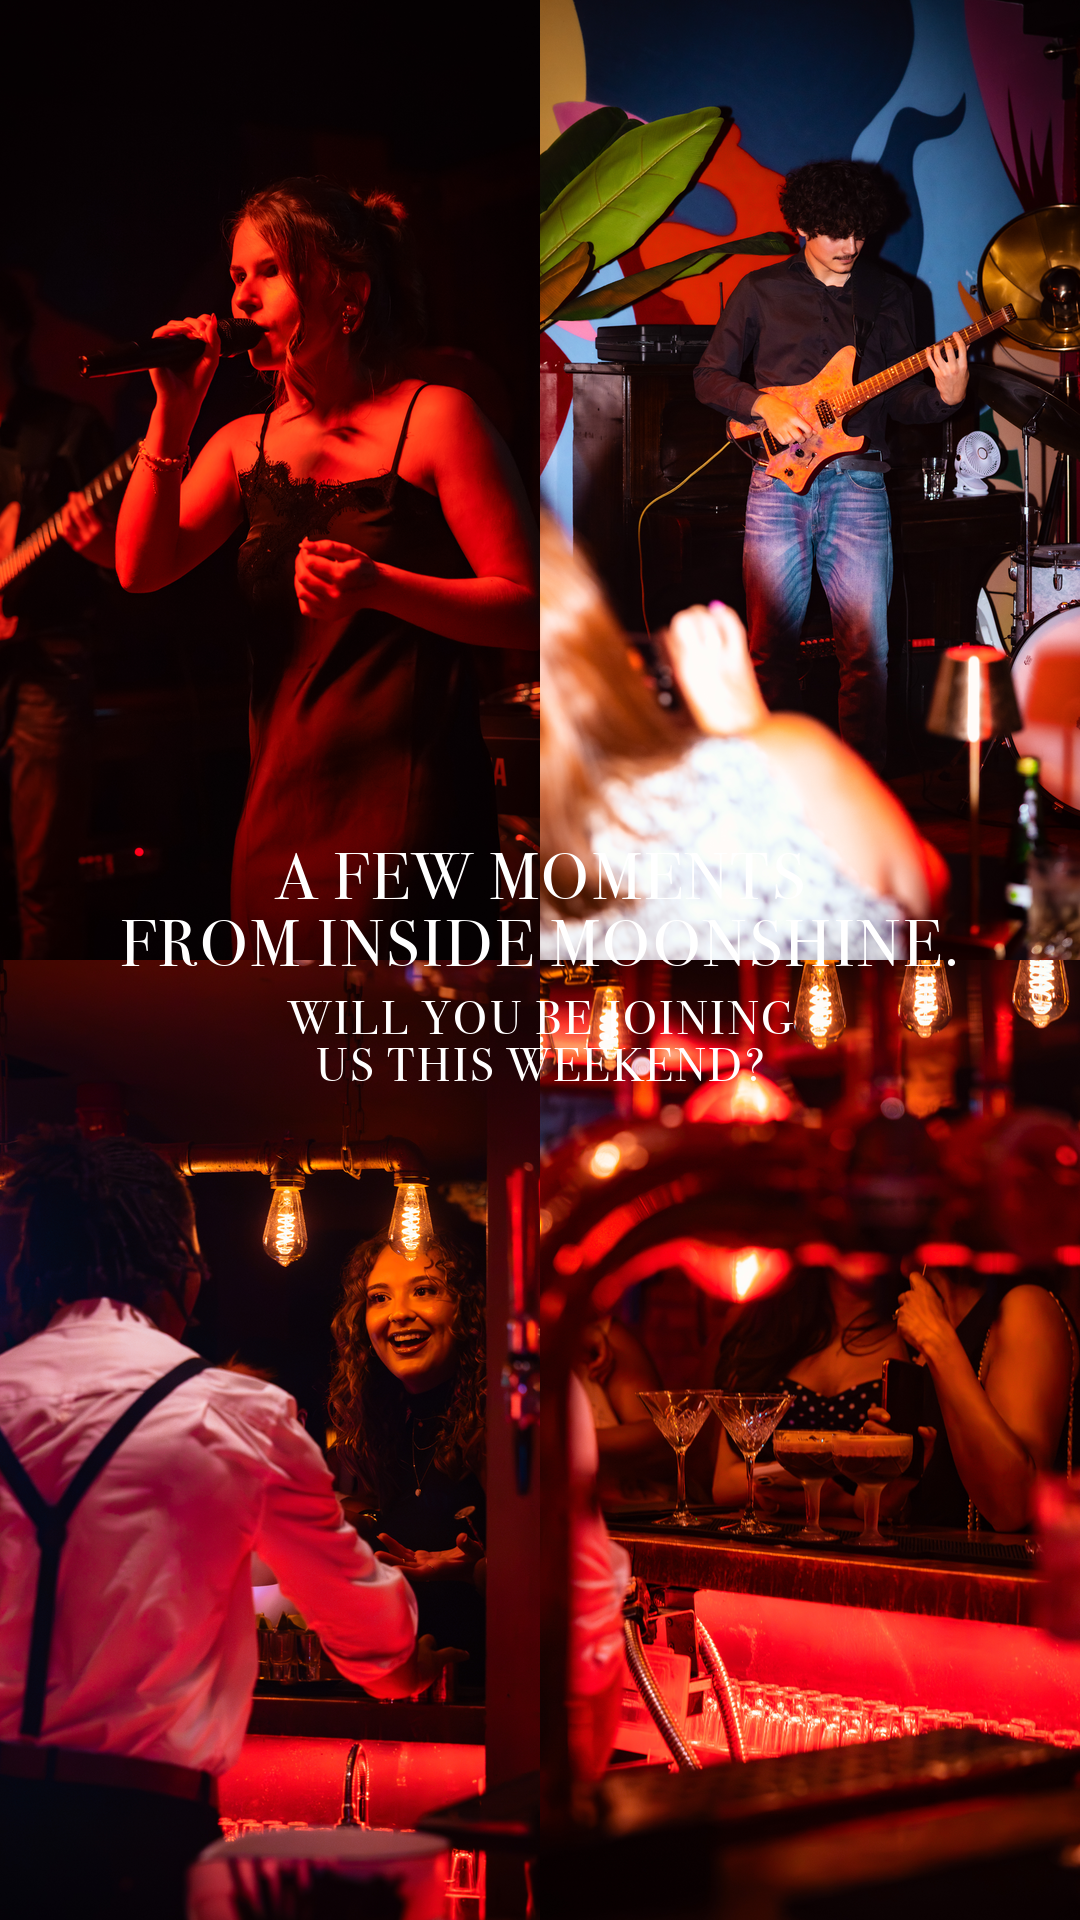
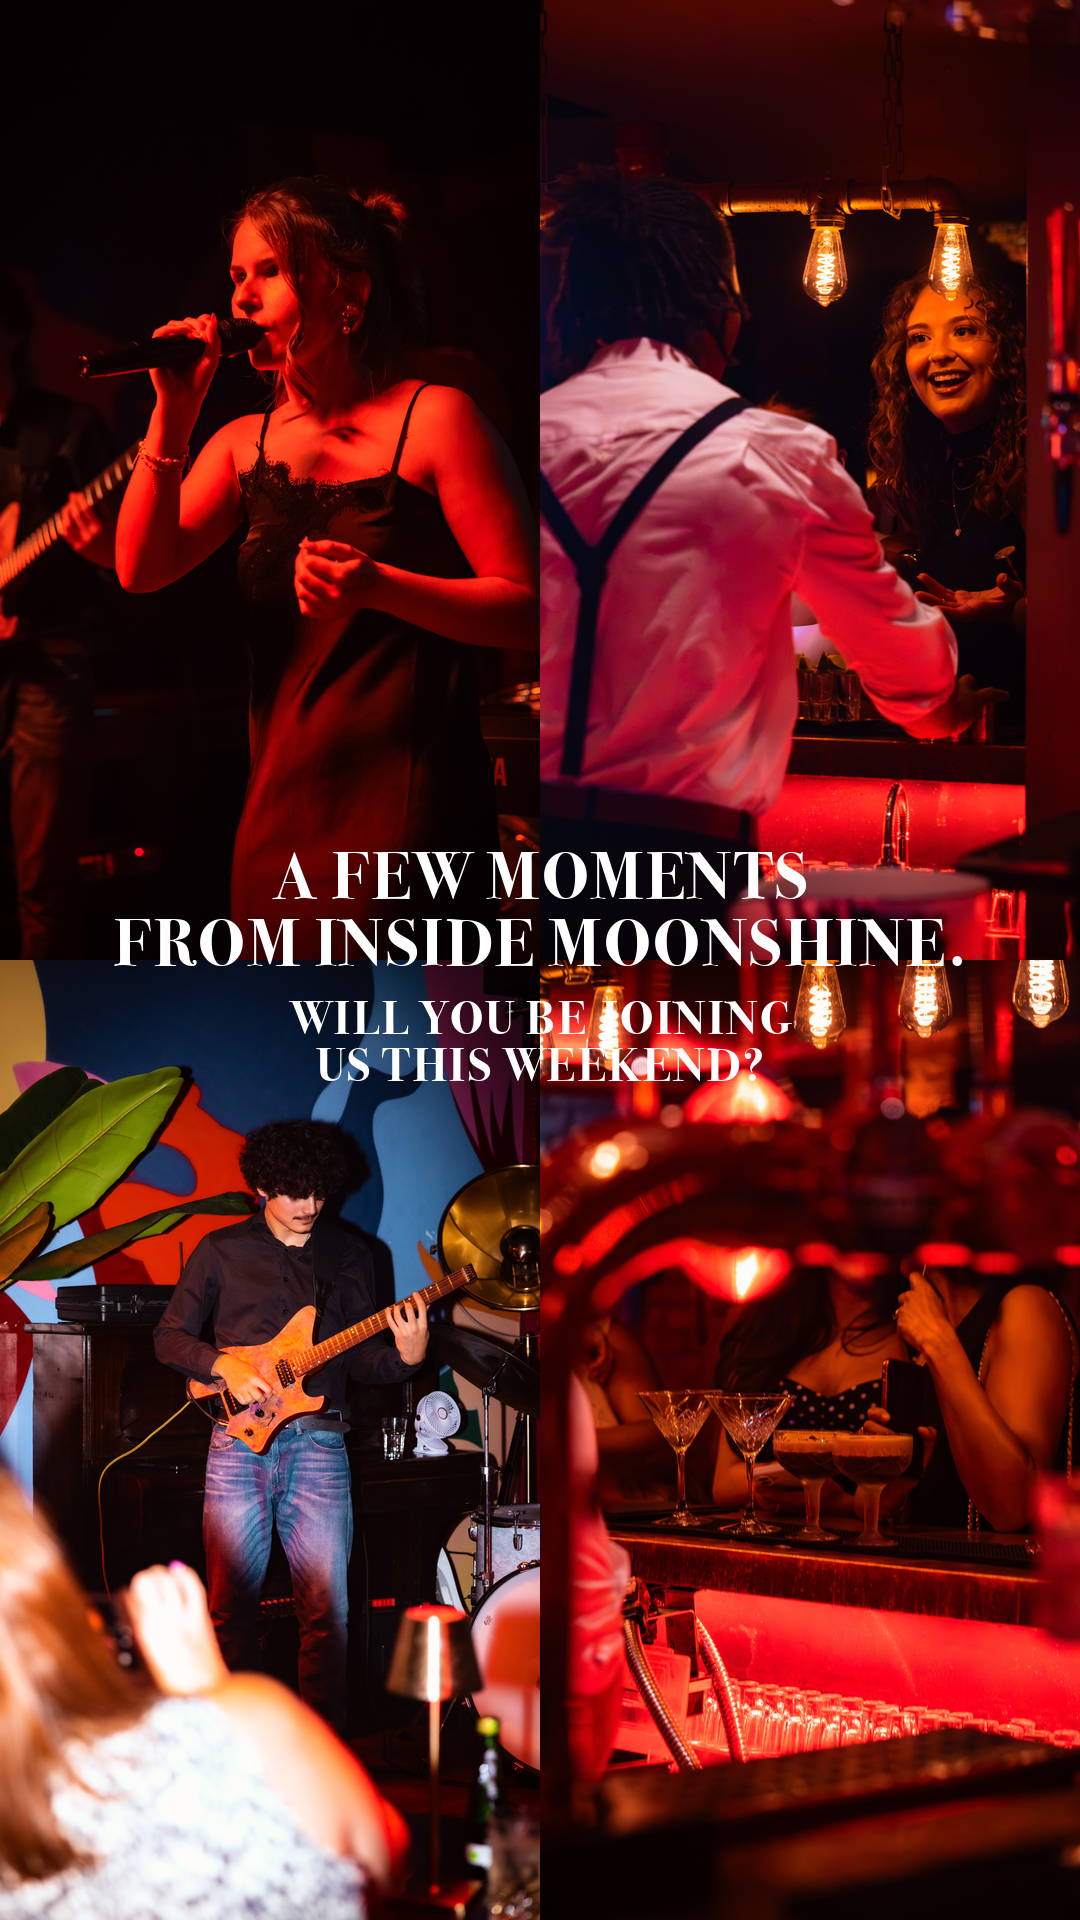
hub snapshot

diff --git a/tools/collage_story.py b/tools/collage_story.py
@@ -25,7 +25,9 @@ SANS = [
 ]
 
 
-def load_font(size, family="serif"):
+def load_font(size, family="serif", bold=False):
+    if family == "serif" and bold:
+        return ImageFont.truetype(SERIF[0], size, index=2)   # Bodoni 72 Bold
     for path in (SERIF if family == "serif" else SANS):
         try:
             return ImageFont.truetype(path, size)
@@ -52,6 +54,7 @@ p.add_argument("--track", type=float, default=2.5)
 p.add_argument("--leading", type=float, default=1.02)
 p.add_argument("--ratio", type=float, default=0.72)
 p.add_argument("--margin", type=int, default=110)
+p.add_argument("--bold", action="store_true", default=False)
 p.add_argument("--caps", action="store_true", default=True)
 p.add_argument("--box", action="store_true", default=False)
 p.add_argument("--out", required=True)
@@ -87,8 +90,8 @@ if a.caption:
     # auto-fit: shrink both blocks together until the widest line fits the margins
     size, track = a.size, a.track
     while size > 18:
-        f1 = load_font(size, a.font)
-        f2 = load_font(max(14, int(size * a.ratio)), a.font)
+        f1 = load_font(size, a.font, a.bold)
+        f2 = load_font(max(14, int(size * a.ratio)), a.font, a.bold)
         widest = max([line_w(l, f1, track) for l in blocks[0]] or [0] +
                      [line_w(l, f2, track) for l in blocks[1]] or [0])
         if blocks[1]:
@@ -96,9 +99,9 @@ if a.caption:
         if widest <= max_w:
             break
         size -= 2
-    f1 = load_font(size, a.font)
+    f1 = load_font(size, a.font, a.bold)
     size2 = max(14, int(size * a.ratio))
-    f2 = load_font(size2, a.font)
+    f2 = load_font(size2, a.font, a.bold)
 
     def draw_tracked(x, y, text, font):
         for c in text:
